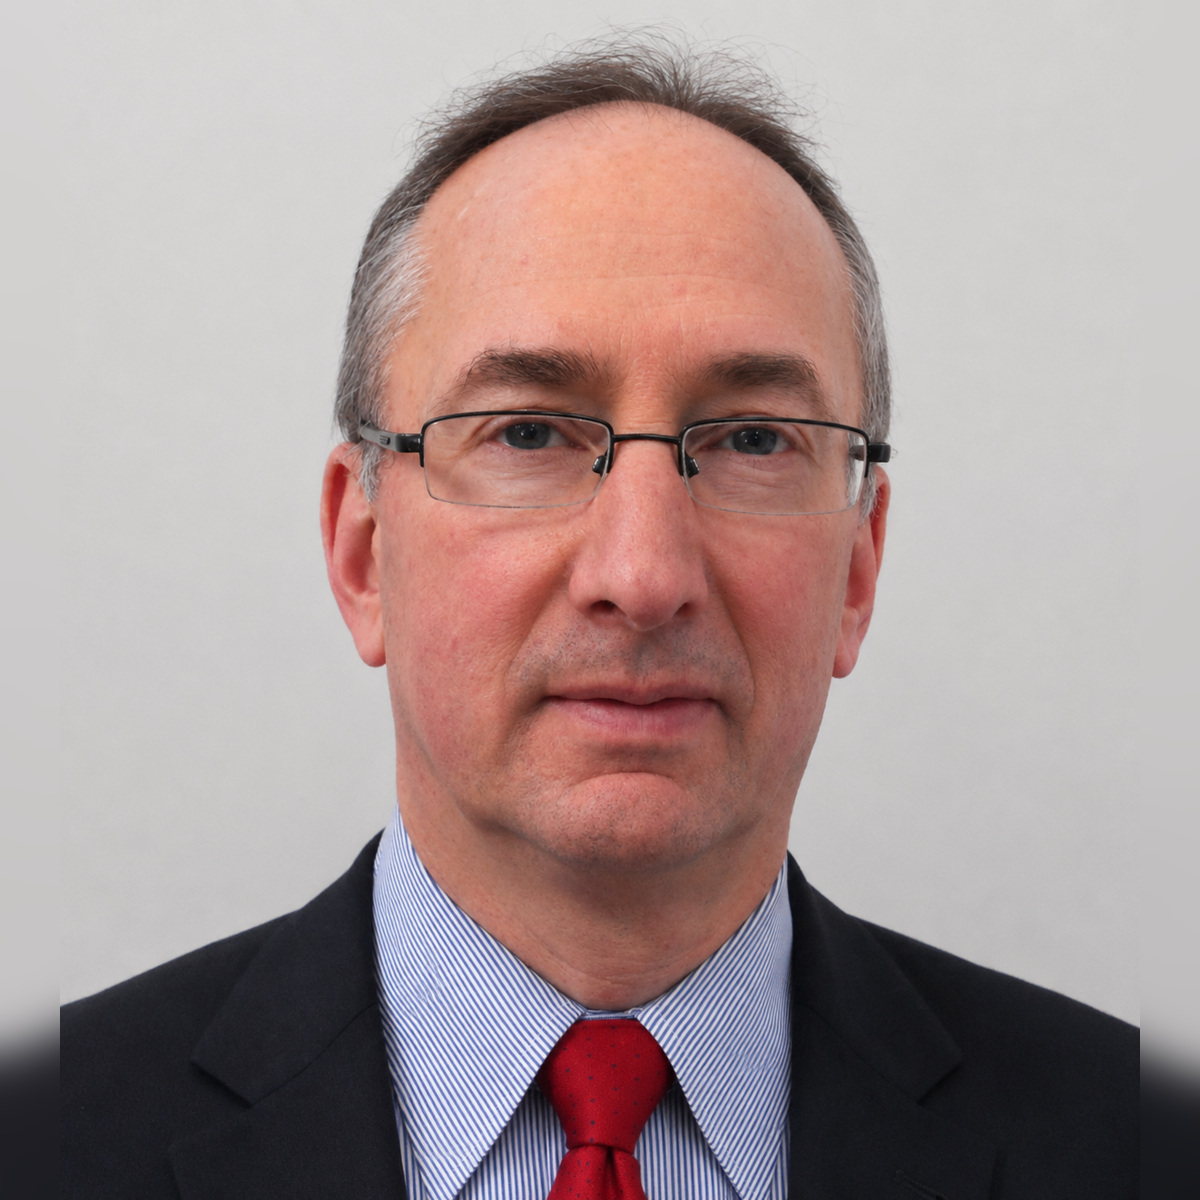
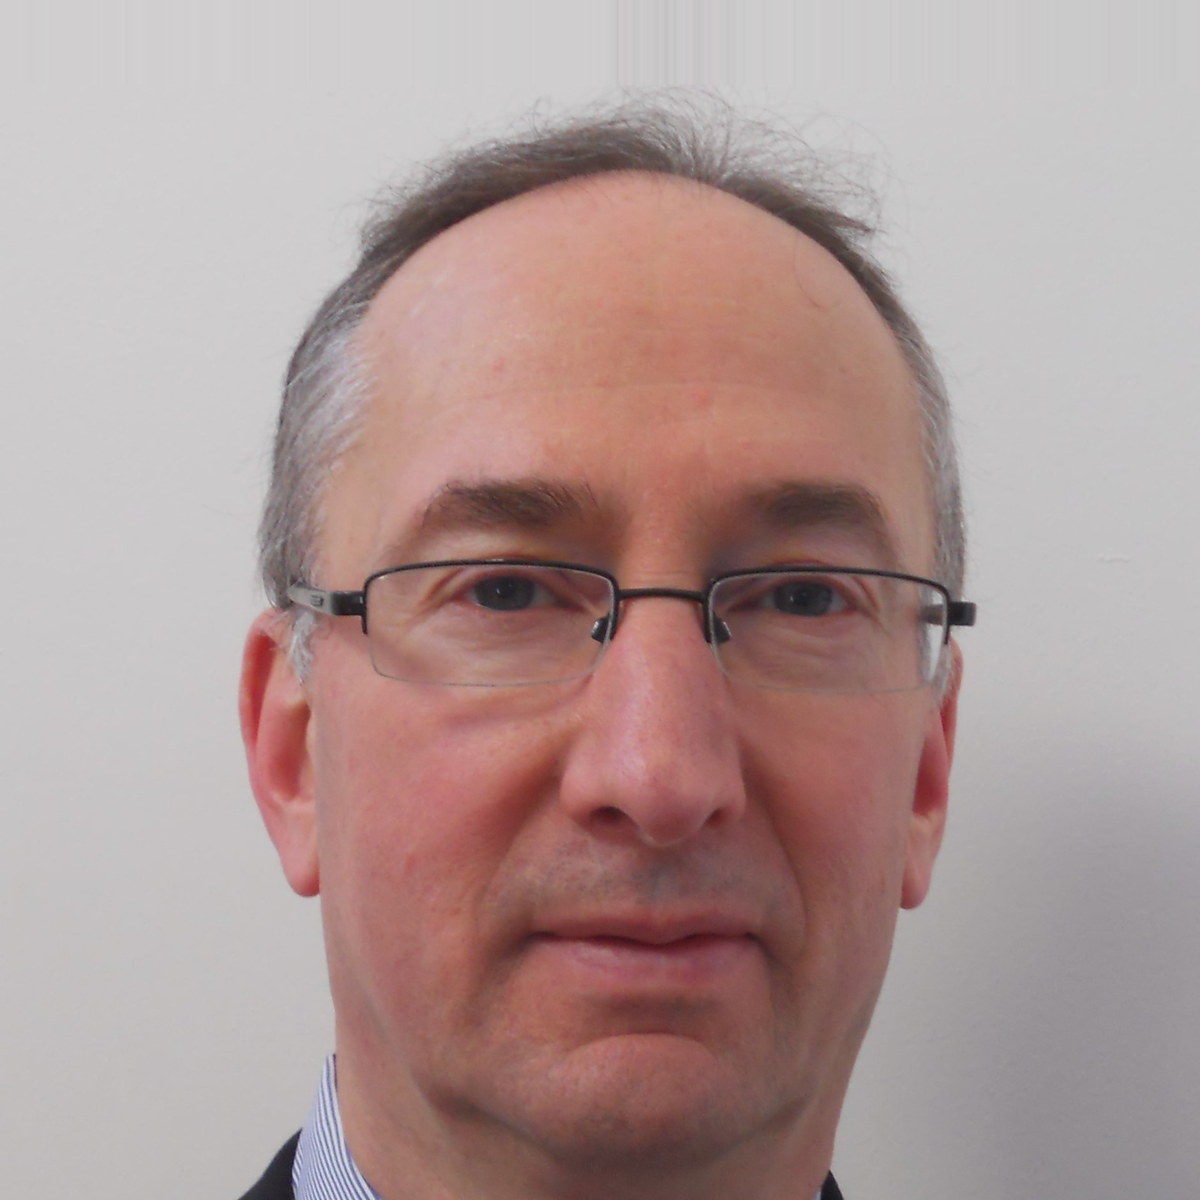
Update the David Page portrait and rename the newsroom heading
David Page: replaced with the supplied headshot. Its subject sits 55px from
the top of the frame, so a band of the backdrop is replicated above before the
square is taken — otherwise the head would touch the card's top edge.

Newsroom: "Press releases" becomes "Press release/Aveta in news". The toolbar
now stacks below 560px; side by side the longer heading was squeezed to ~180px
and wrapped onto three lines beside the year filter.

diff --git a/app/globals.css b/app/globals.css
@@ -304,7 +304,9 @@ a:hover > .icon-arrow{transform:translate(1px,-1px);transition:transform .15s}
 }
 @media (max-width: 560px){
   :root{--gutter:20px;--section-y:var(--s-8);--section-y-sm:var(--s-6)}
-  h1{font-size:46px}h2{font-size:34px}.home-hero-copy h1{font-size:52px}.orbit{width:400px;height:400px}.orbit.two{width:310px;height:310px}.ecosystem-wrap{min-height:440px}.tumor-core{transform:scale(.78)}.ecosystem-label{font-size:10px}.tumor-state{grid-template-columns:90px 1fr}.cell-cluster{width:88px}.pathway-card{padding:28px}.conference-card{padding:22px}.actions{flex-direction:column;align-items:stretch}.button,.button-outline,.arrow-link{width:100%}.news-toolbar{align-items:flex-start;gap:20px}.bio-modal{padding:28px 22px}
+  h1{font-size:46px}h2{font-size:34px}.home-hero-copy h1{font-size:52px}.orbit{width:400px;height:400px}.orbit.two{width:310px;height:310px}.ecosystem-wrap{min-height:440px}.tumor-core{transform:scale(.78)}.ecosystem-label{font-size:10px}.tumor-state{grid-template-columns:90px 1fr}.cell-cluster{width:88px}.pathway-card{padding:28px}.conference-card{padding:22px}.actions{flex-direction:column;align-items:stretch}.button,.button-outline,.arrow-link{width:100%}/* Stack: side by side, the longer heading is squeezed to ~180px and wraps to
+   three lines next to the year filter. */
+.news-toolbar{flex-direction:column;align-items:flex-start;gap:20px}.bio-modal{padding:28px 22px}
 }
 
 .centered-copy{max-width:900px;text-align:center}.centered-copy .lead{margin-inline:auto}.center-actions{justify-content:center}.soft-bg{background:var(--soft)}

diff --git a/app/components/NewsList.tsx b/app/components/NewsList.tsx
@@ -34,7 +34,7 @@ export function NewsList({ items }: { items: NewsItem[] }) {
   return (
     <>
       <div className="news-toolbar">
-        <div><h2>Press releases</h2></div>
+        <div><h2>Press release/Aveta in news</h2></div>
         <YearSelect
           label="Filter press releases by year"
           value={year}
